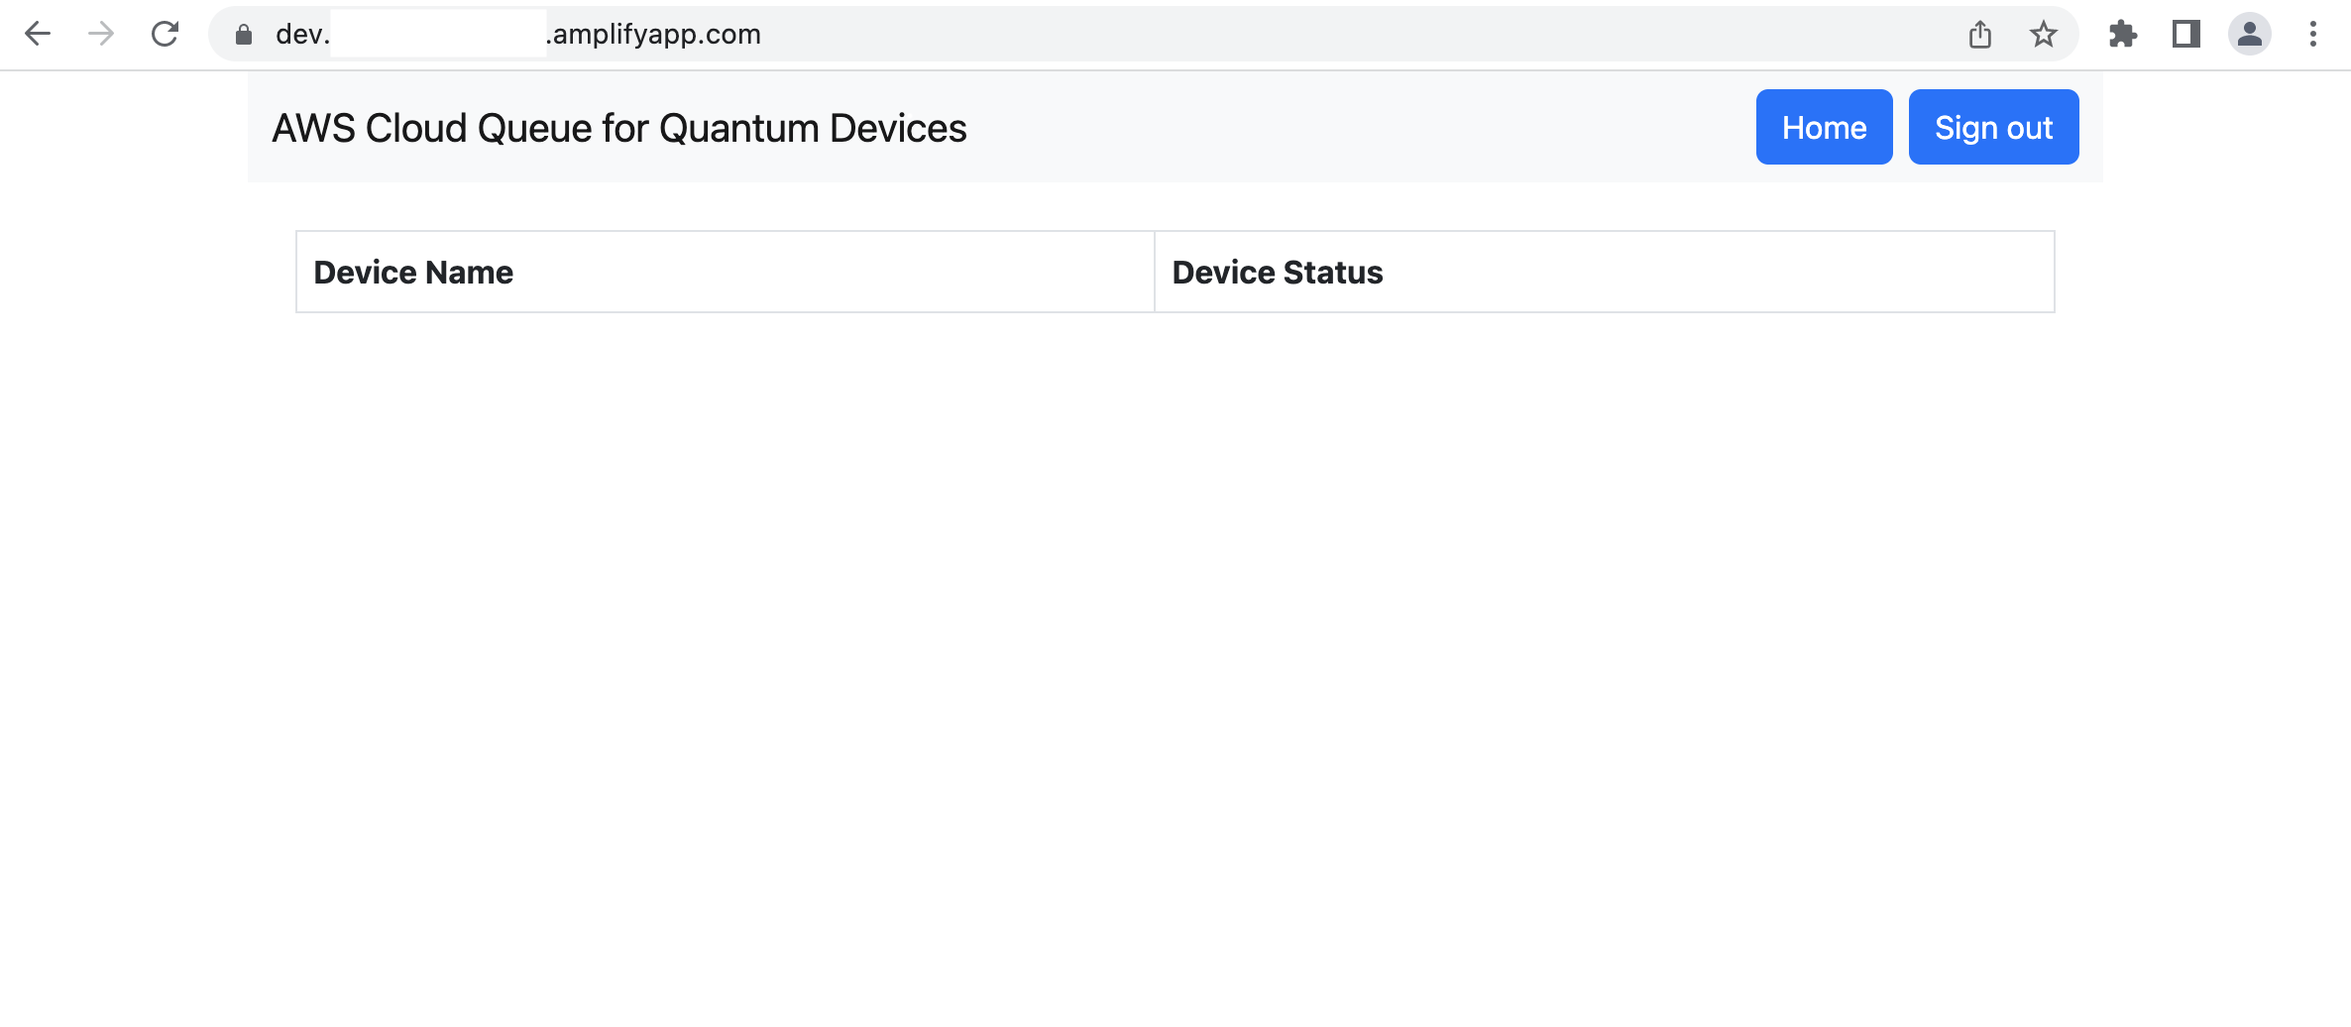
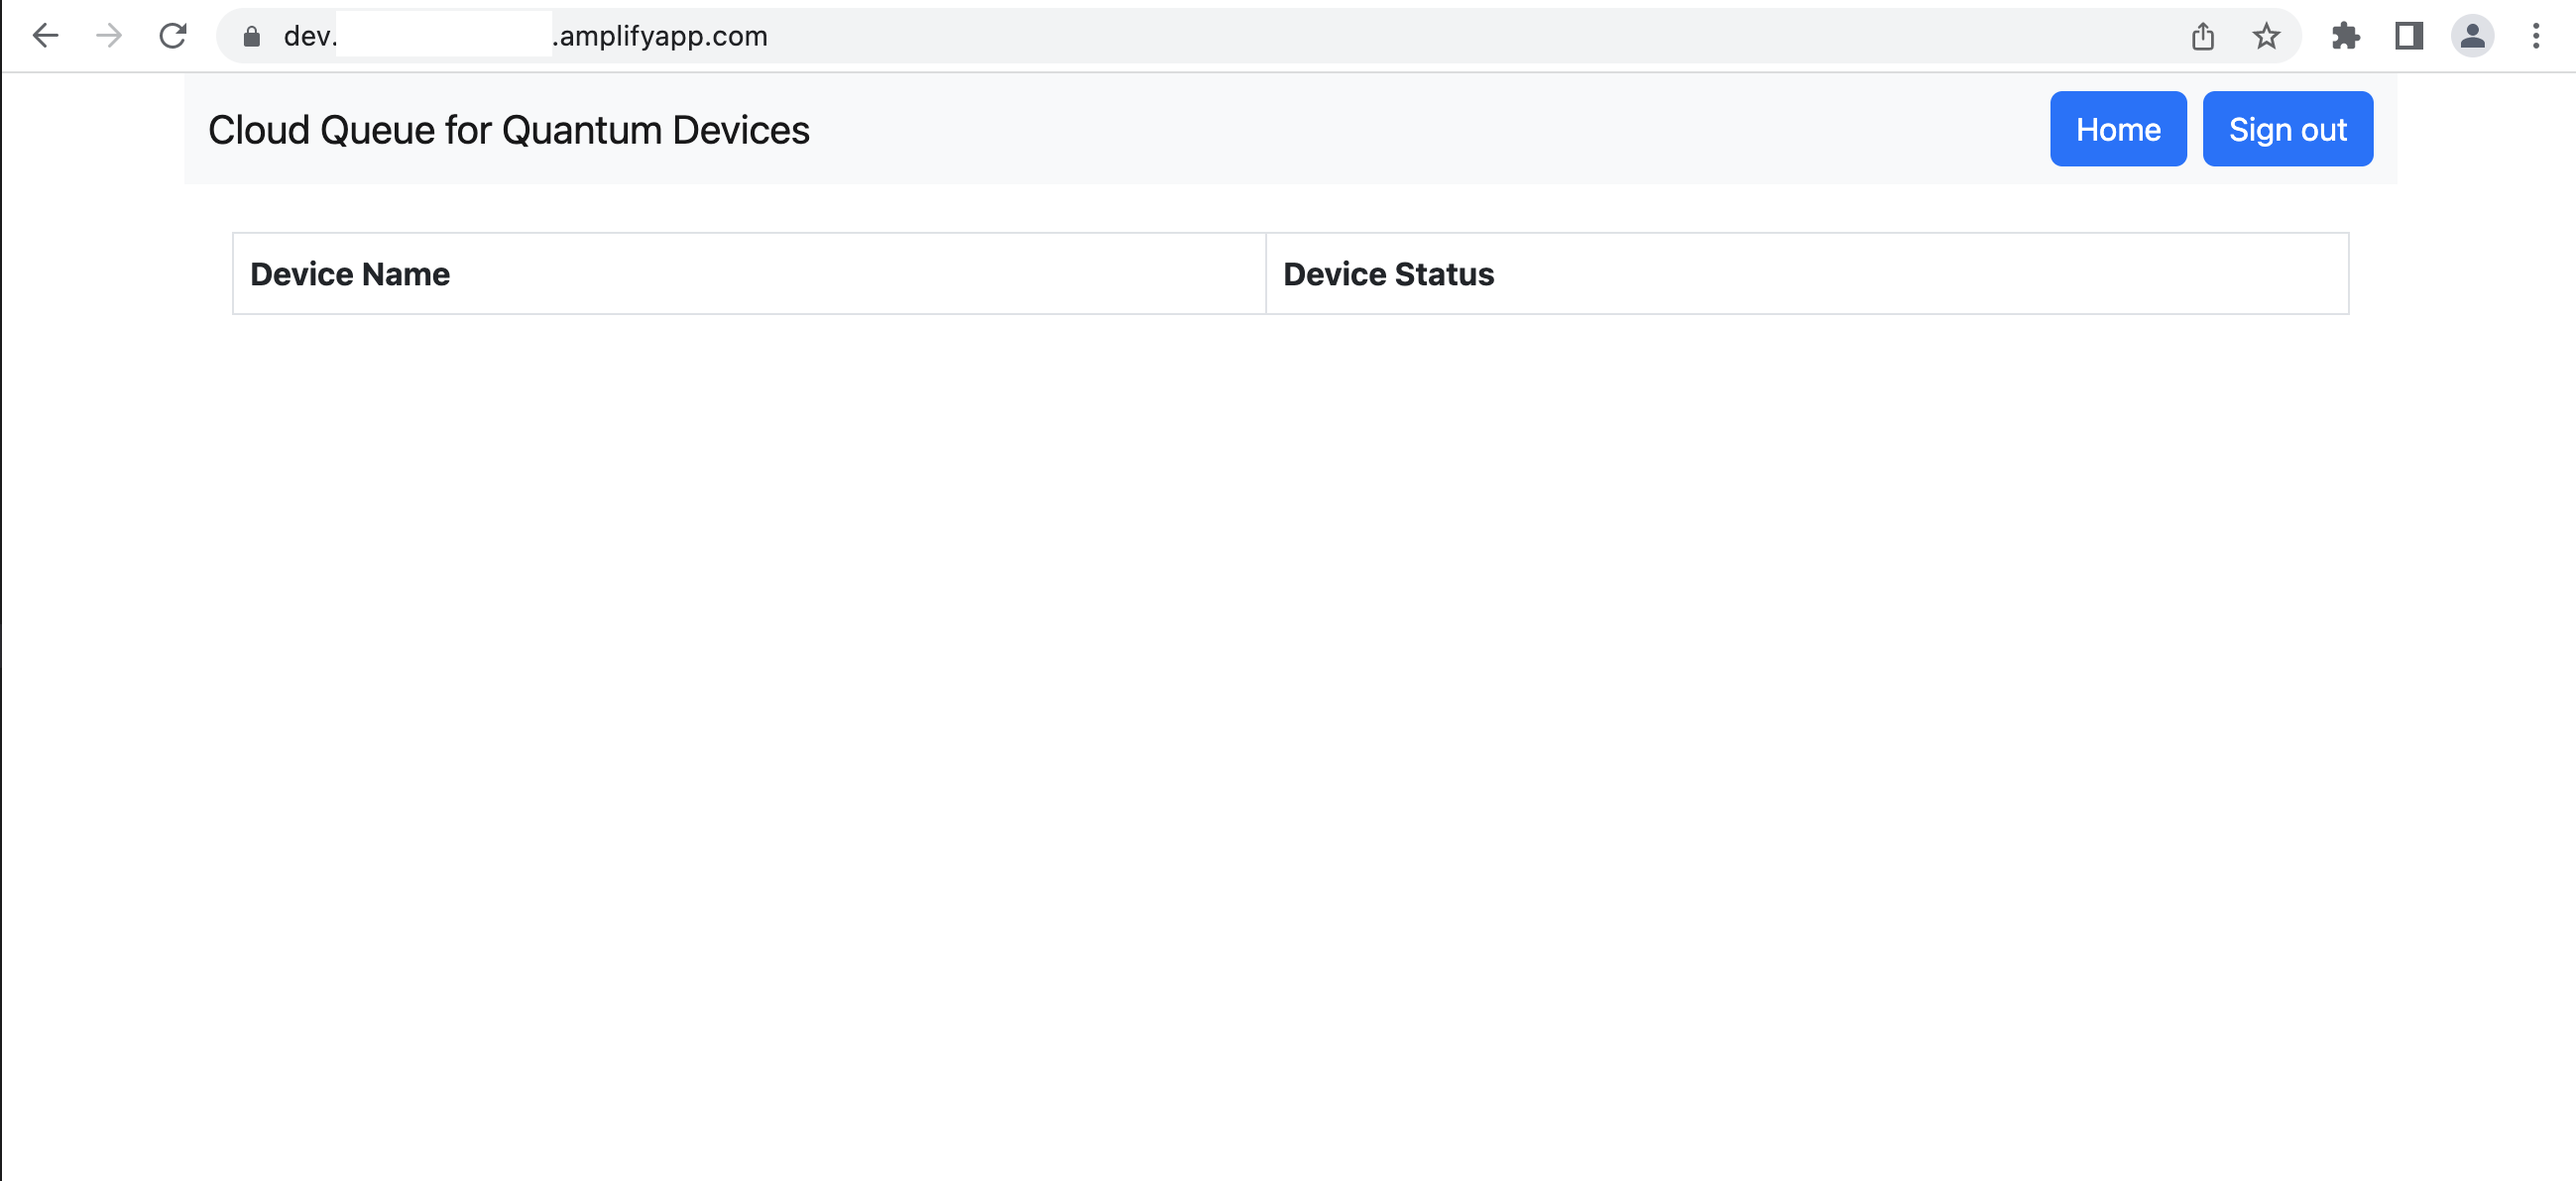
Project name changes.

diff --git a/public/index.html b/public/index.html
@@ -6,7 +6,7 @@
     <meta name="theme-color" content="#000000" />
     <meta
       name="description"
-      content="AWS Cloud Queue for Quantum Devices"
+      content="Cloud Queue for Quantum Devices"
     />
     <!--
       manifest.json provides metadata used when your web app is installed on a
@@ -22,7 +22,7 @@
       work correctly both with client-side routing and a non-root public URL.
       Learn how to configure a non-root public URL by running `npm run build`.
     -->
-    <title>AWS Cloud Queue for Quantum Devices</title>
+    <title>Cloud Queue for Quantum Devices</title>
   </head>
   <body>
     <noscript>You need to enable JavaScript to run this app.</noscript>

diff --git a/src/App.js b/src/App.js
@@ -10,7 +10,7 @@ function App({ signOut }) {
     <Container>
       <Navbar bg="light" expand="lg">
         <Container>
-          <Navbar.Brand href="#home">AWS Cloud Queue for Quantum Devices</Navbar.Brand>
+          <Navbar.Brand href="#home">Cloud Queue for Quantum Devices</Navbar.Brand>
           <Nav className="me-justify-content-end">
             <Stack direction="horizontal" gap={2}>
             <Nav.Item>

diff --git a/src/App.test.js b/src/App.test.js
@@ -18,6 +18,6 @@ test('renders header', () => {
     <RouterProvider router={router} />
   );
 
-  const headerElement = screen.getByText(/AWS Cloud Queue for Quantum Devices/i);
+  const headerElement = screen.getByText(/Cloud Queue for Quantum Devices/i);
   expect(headerElement).toBeInTheDocument();
 });

diff --git a/README.md b/README.md
@@ -1,7 +1,7 @@
-# AWS Cloud Queue for Quantum Devices
+# Cloud Queue for Quantum Devices
 
 ## Overview
-AWS Cloud Queue for Quantum Devices is a cloud-based application which allows quantum researchers to easily and securely submit and manage workloads destined for quantum devices, from anywhere in the world. 
+Cloud Queue for Quantum Devices is a cloud-based application which allows quantum researchers to easily and securely submit and manage workloads destined for quantum devices, from anywhere in the world. 
 
 Researchers will primarily use this application through a web interface -- using any modern web browser. Once deployed, administrators create user accounts for researchers, which then will be used to access the secure web interface. Administrators will also integrate the quantum devices with the application which will provide researchers the ability to submit workloads to  devices. Once logged in, researchers can view the queues they have access to, view the characteristics of the device attached to the queue, submit experiments, view and manage their queued experiments, and retrieve results once competed. The QICK project has implemented client code, available in their GitHub repo, which uses this application's API. This project was developed in collaboration with the QICK community, for which we are very grateful.
 
@@ -64,12 +64,12 @@ amplify hosting status
 9. Open a browser and access the URL. Provide the username (email address) and temporary password to login. On the following screen, you will provide a new password for ongoing use.
 ![Login](./assets/login.png)
 
-10. After setting your new password, you should see the AWS Cloud Queue for Quantum Devices UI Portal.
+10. After setting your new password, you should see the Cloud Queue for Quantum Devices UI Portal.
 ![Portal](./assets/portal.png)
 
 ## Integrations
 - ### [SideQICK](https://github.com/openquantumhardware/qick/tree/main/aws)
-    SideQICK is a Python-based library and CLI that can used to integrate with AWS Cloud Queue for Quantum Devices. The library provides the ability to pull workloads off of the queue, process them, and submit results back for reseachers to consume via the web interface.
+    SideQICK is a Python-based library and CLI that can used to integrate with Cloud Queue for Quantum Devices. The library provides the ability to pull workloads off of the queue, process them, and submit results back for reseachers to consume via the web interface.
 
 ## Running the UI locally
 
